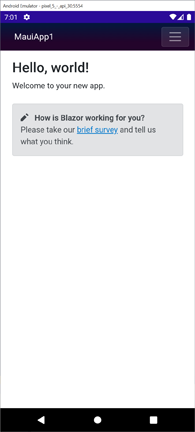
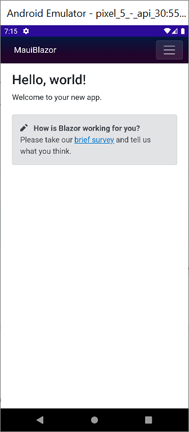
Change tutorial app name (#25422)

Changed region(s): [[0.0, 0.0, 1.0, 1.0]]

diff --git a/aspnetcore/blazor/hybrid/tutorials/maui.md b/aspnetcore/blazor/hybrid/tutorials/maui.md
@@ -5,7 +5,7 @@ description: Build a .NET MAUI Blazor app step-by-step.
 monikerRange: '>= aspnetcore-6.0'
 ms.author: riande
 ms.custom: mvc
-ms.date: 02/14/2022
+ms.date: 03/25/2022
 no-loc: ["Blazor Hybrid", Home, Privacy, Kestrel, appsettings.json, "ASP.NET Core Identity", cookie, Cookie, Blazor, "Blazor Server", "Blazor WebAssembly", "Identity", "Let's Encrypt", Razor, SignalR]
 uid: blazor/hybrid/tutorials/maui
 ---
@@ -41,7 +41,7 @@ Select the **.NET MAUI Blazor App (Preview)** template and then select the **Nex
 
 :::image type="content" source="maui/_static/new-project-2.png" alt-text="Choose a template.":::
 
-In the **Configure your new project** window, name your project, choose a suitable location for it, and select the **Create** button:
+In the **Configure your new project** dialog, set the **Project name** to **`MauiBlazor`**, choose a suitable location for the project, and select the **Create** button.
 
 :::image type="content" source="maui/_static/configure-project.png" alt-text="Configure the project.":::
 
